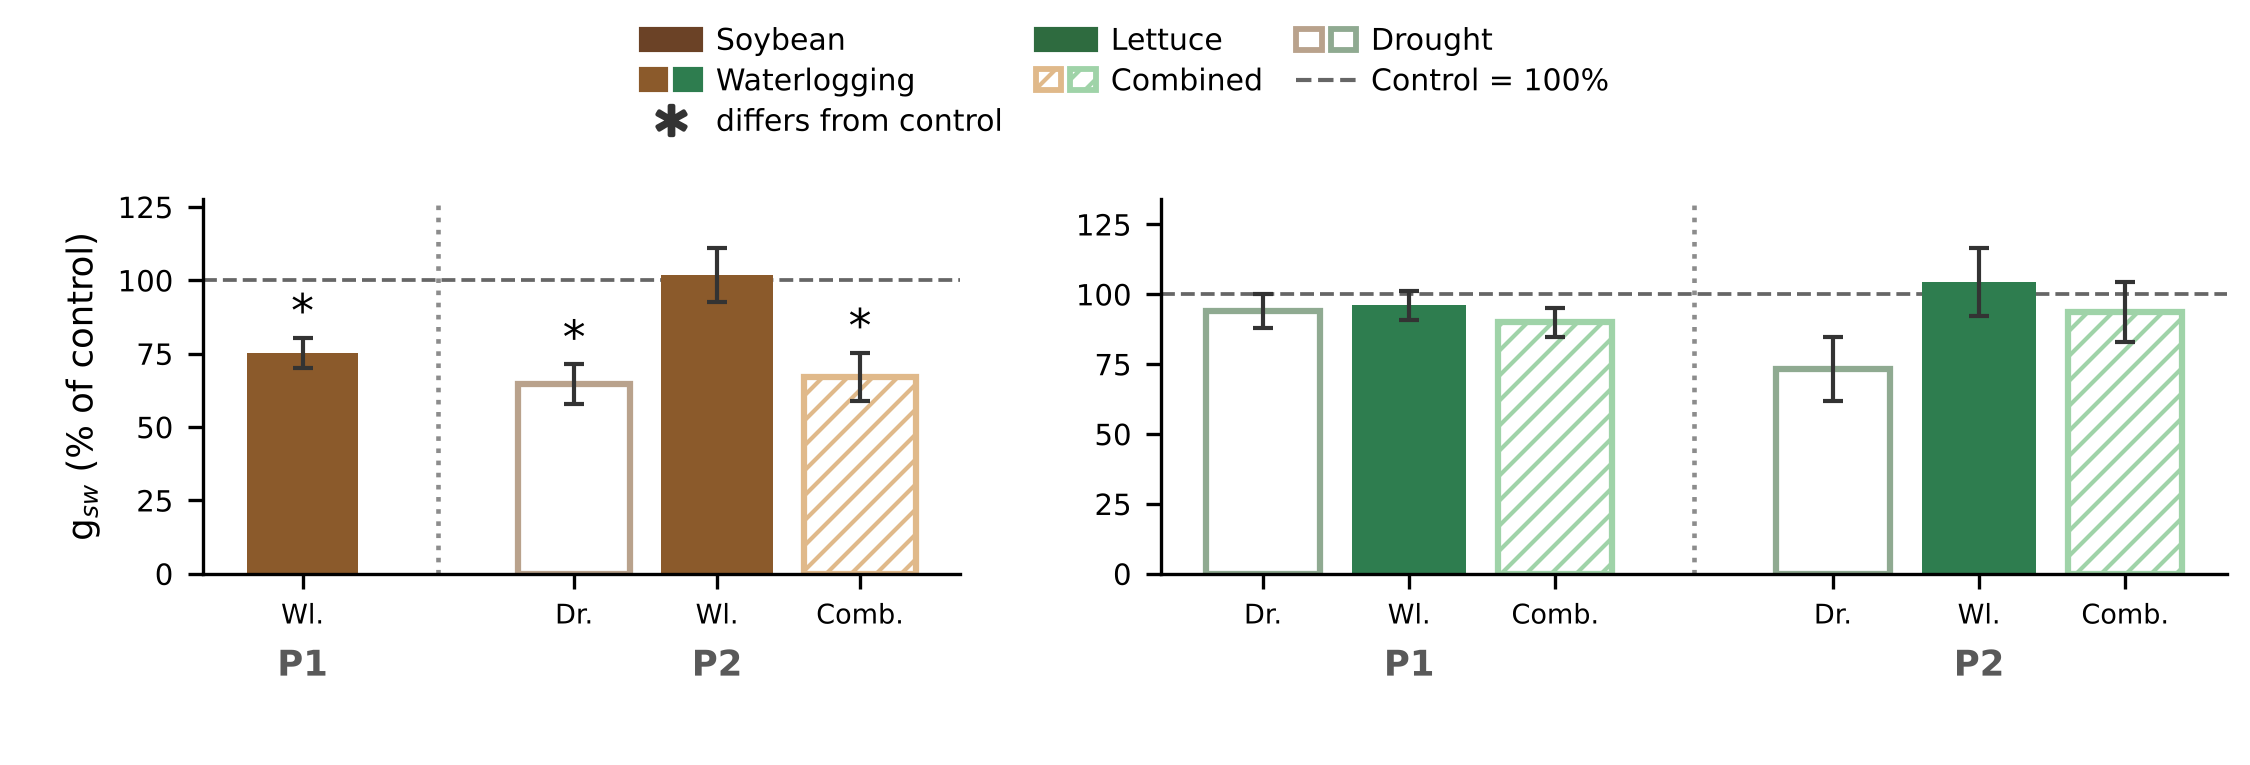
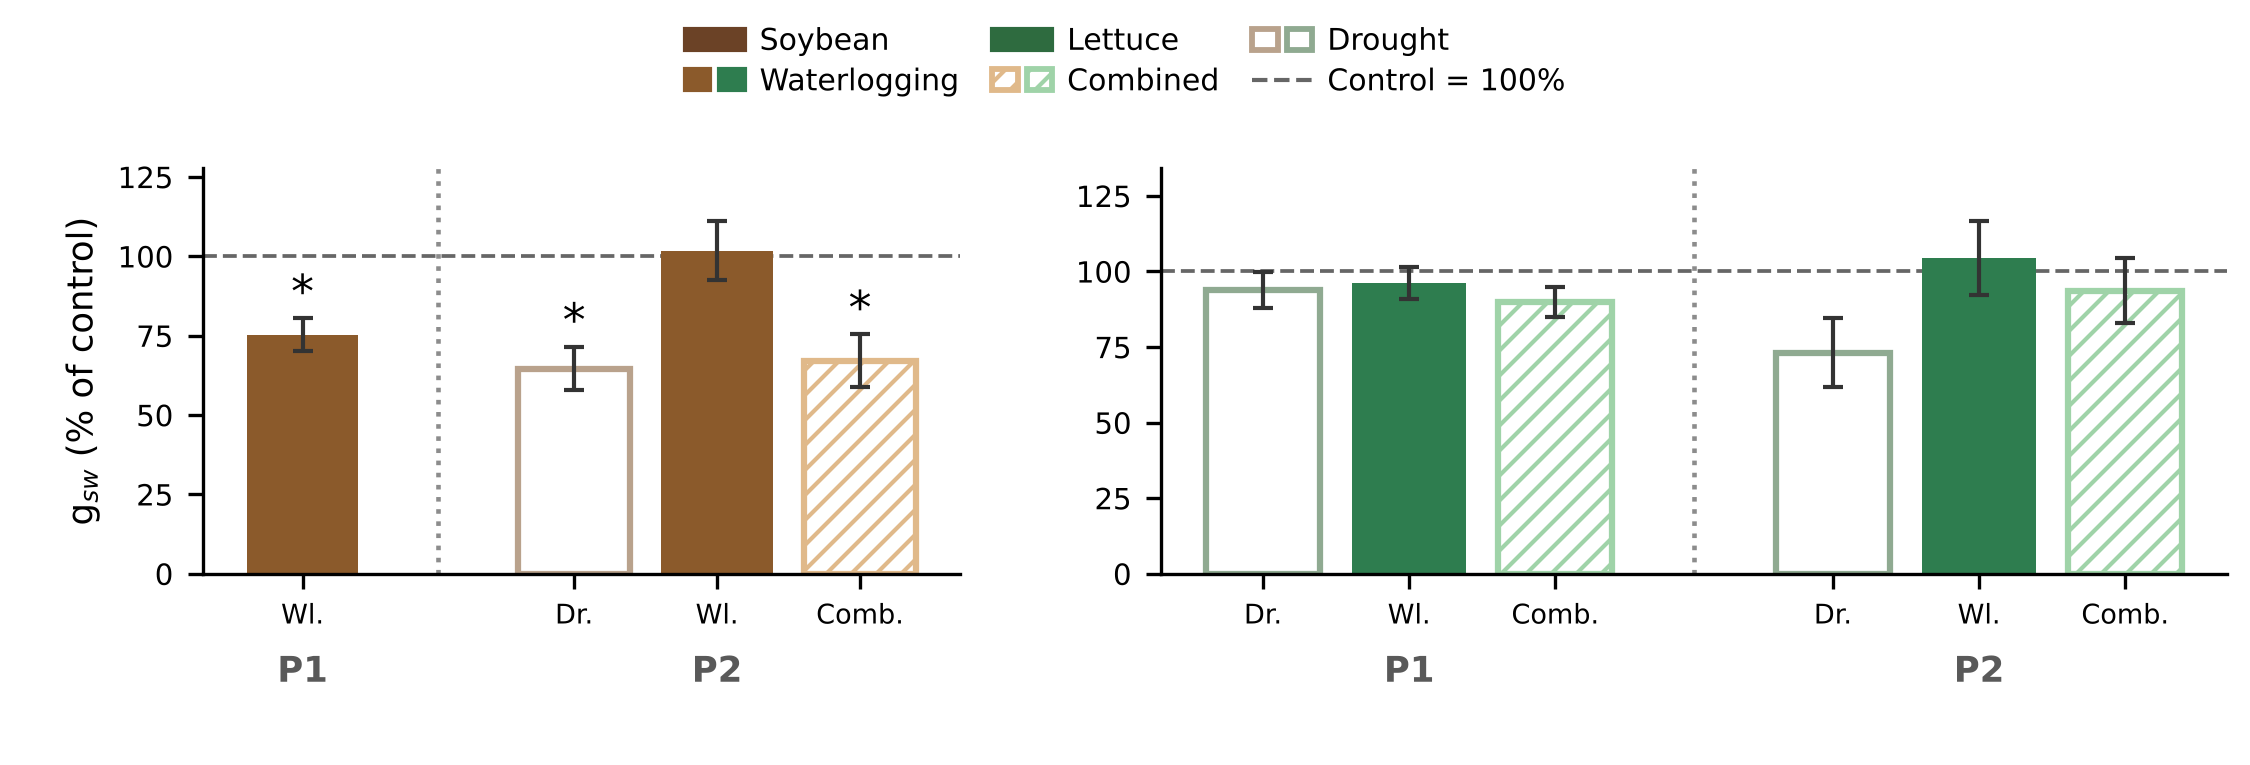
대조구 대비 gsw 그래프 범례 3번째 줄(* 설명) 제거
Claude-Session: https://claude.ai/code/session_01UmxmETyGrZNmWrhahjyccu

diff --git a/03_코드/oral_deck/bars/fig_v14.py b/03_코드/oral_deck/bars/fig_v14.py
@@ -28,8 +28,8 @@ def make(inds,size,fname,adjust):
     for i,ind in enumerate(inds):
         for j,crop in enumerate(['bean','lettuce']): pct_panel(axs[i,j],ind,crop,xlab=(i==r-1),ylab=(j==0))
     hs=[(tuple(Patch(color=CROPC[c][t]) if FILLED[t] else Patch(facecolor='white',edgecolor=CROPC[c][t],lw=1.4,hatch='////' if t=='침수ETc50' else None) for c in ('bean','lettuce')),NAME[t]) for t in TR]
-    legend2(fig,E_crops()+hs+[(Line2D([],[],color='0.4',ls='--',lw=1),'Control = 100%'),(Line2D([],[],color='none',marker='$*$',mfc='0.2',mec='0.2',ms=7),'differs from control')],3 if r==1 else 4,fontsize=7.2,hl=2.0)
+    legend2(fig,E_crops()+hs+[(Line2D([],[],color='0.4',ls='--',lw=1),'Control = 100%')]+([] if r==1 else [(Line2D([],[],color='none',marker='$*$',mfc='0.2',mec='0.2',ms=7),'differs from control')]),3 if r==1 else 4,fontsize=7.2,hl=2.0)
     fig.subplots_adjust(**adjust); fig.savefig('figs5/'+fname); plt.close(fig)
-make(['gsw'],(7.5,2.55),'pct_gsw.png',dict(left=0.09,right=0.99,top=0.74,bottom=0.25,wspace=0.22))
+make(['gsw'],(7.5,2.55),'pct_gsw.png',dict(left=0.09,right=0.99,top=0.78,bottom=0.25,wspace=0.22))
 make(['phi','phinpq','phino'],(7.2,5.3),'pct_phi3.png',dict(left=0.095,right=0.99,top=0.88,bottom=0.085,hspace=0.2,wspace=0.22))
 print('ok')
